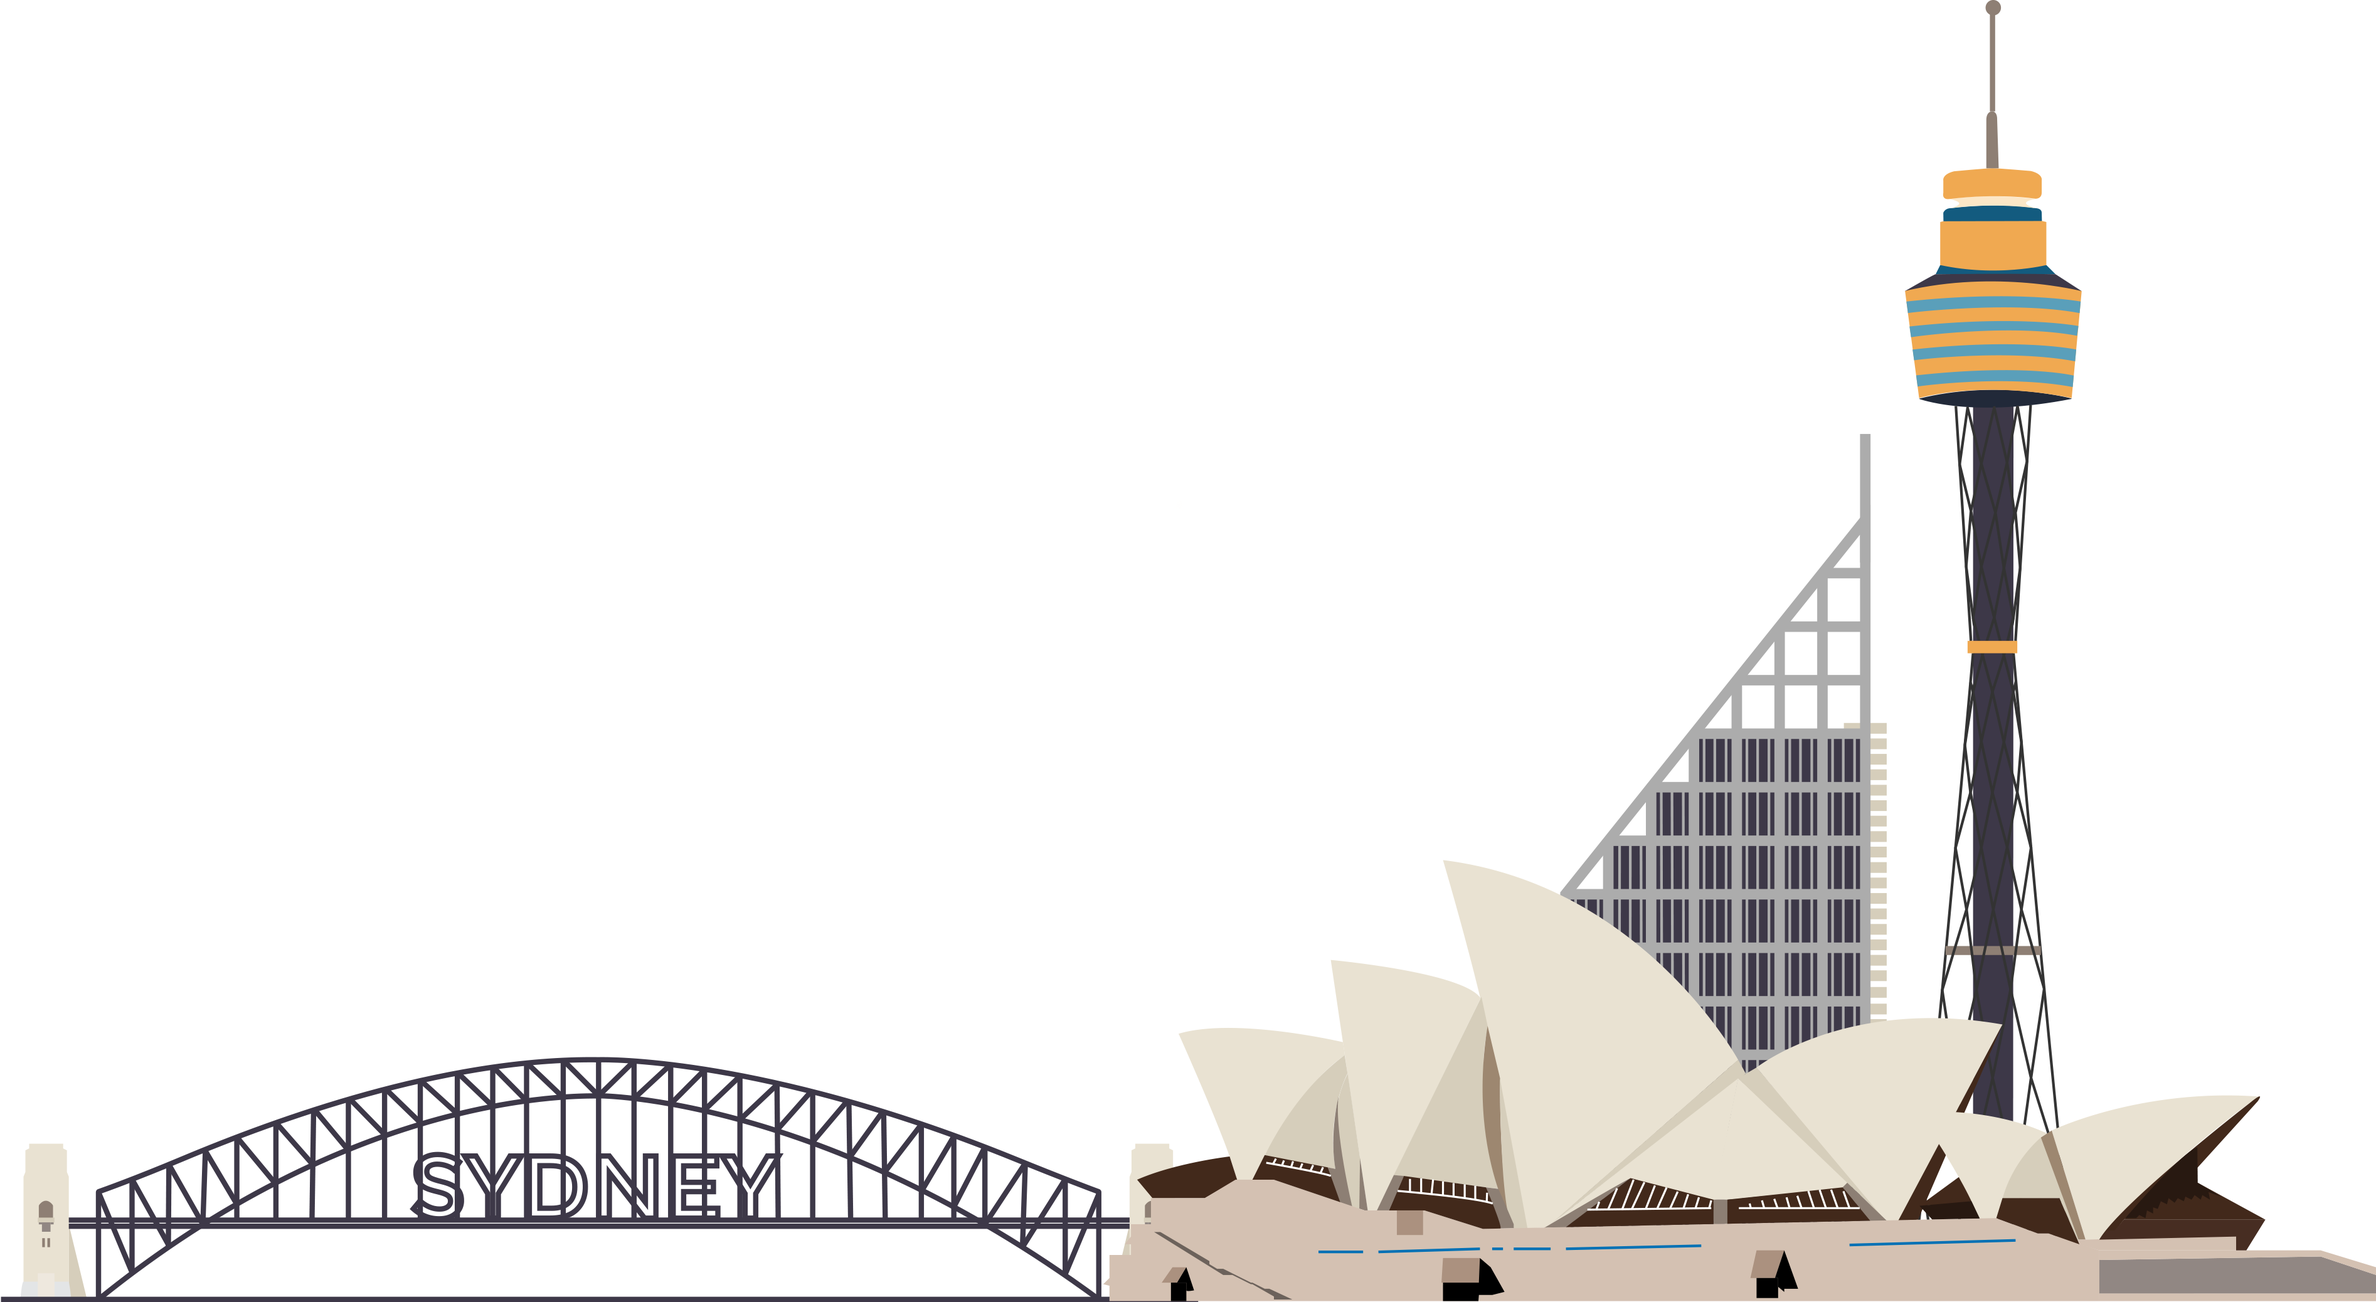
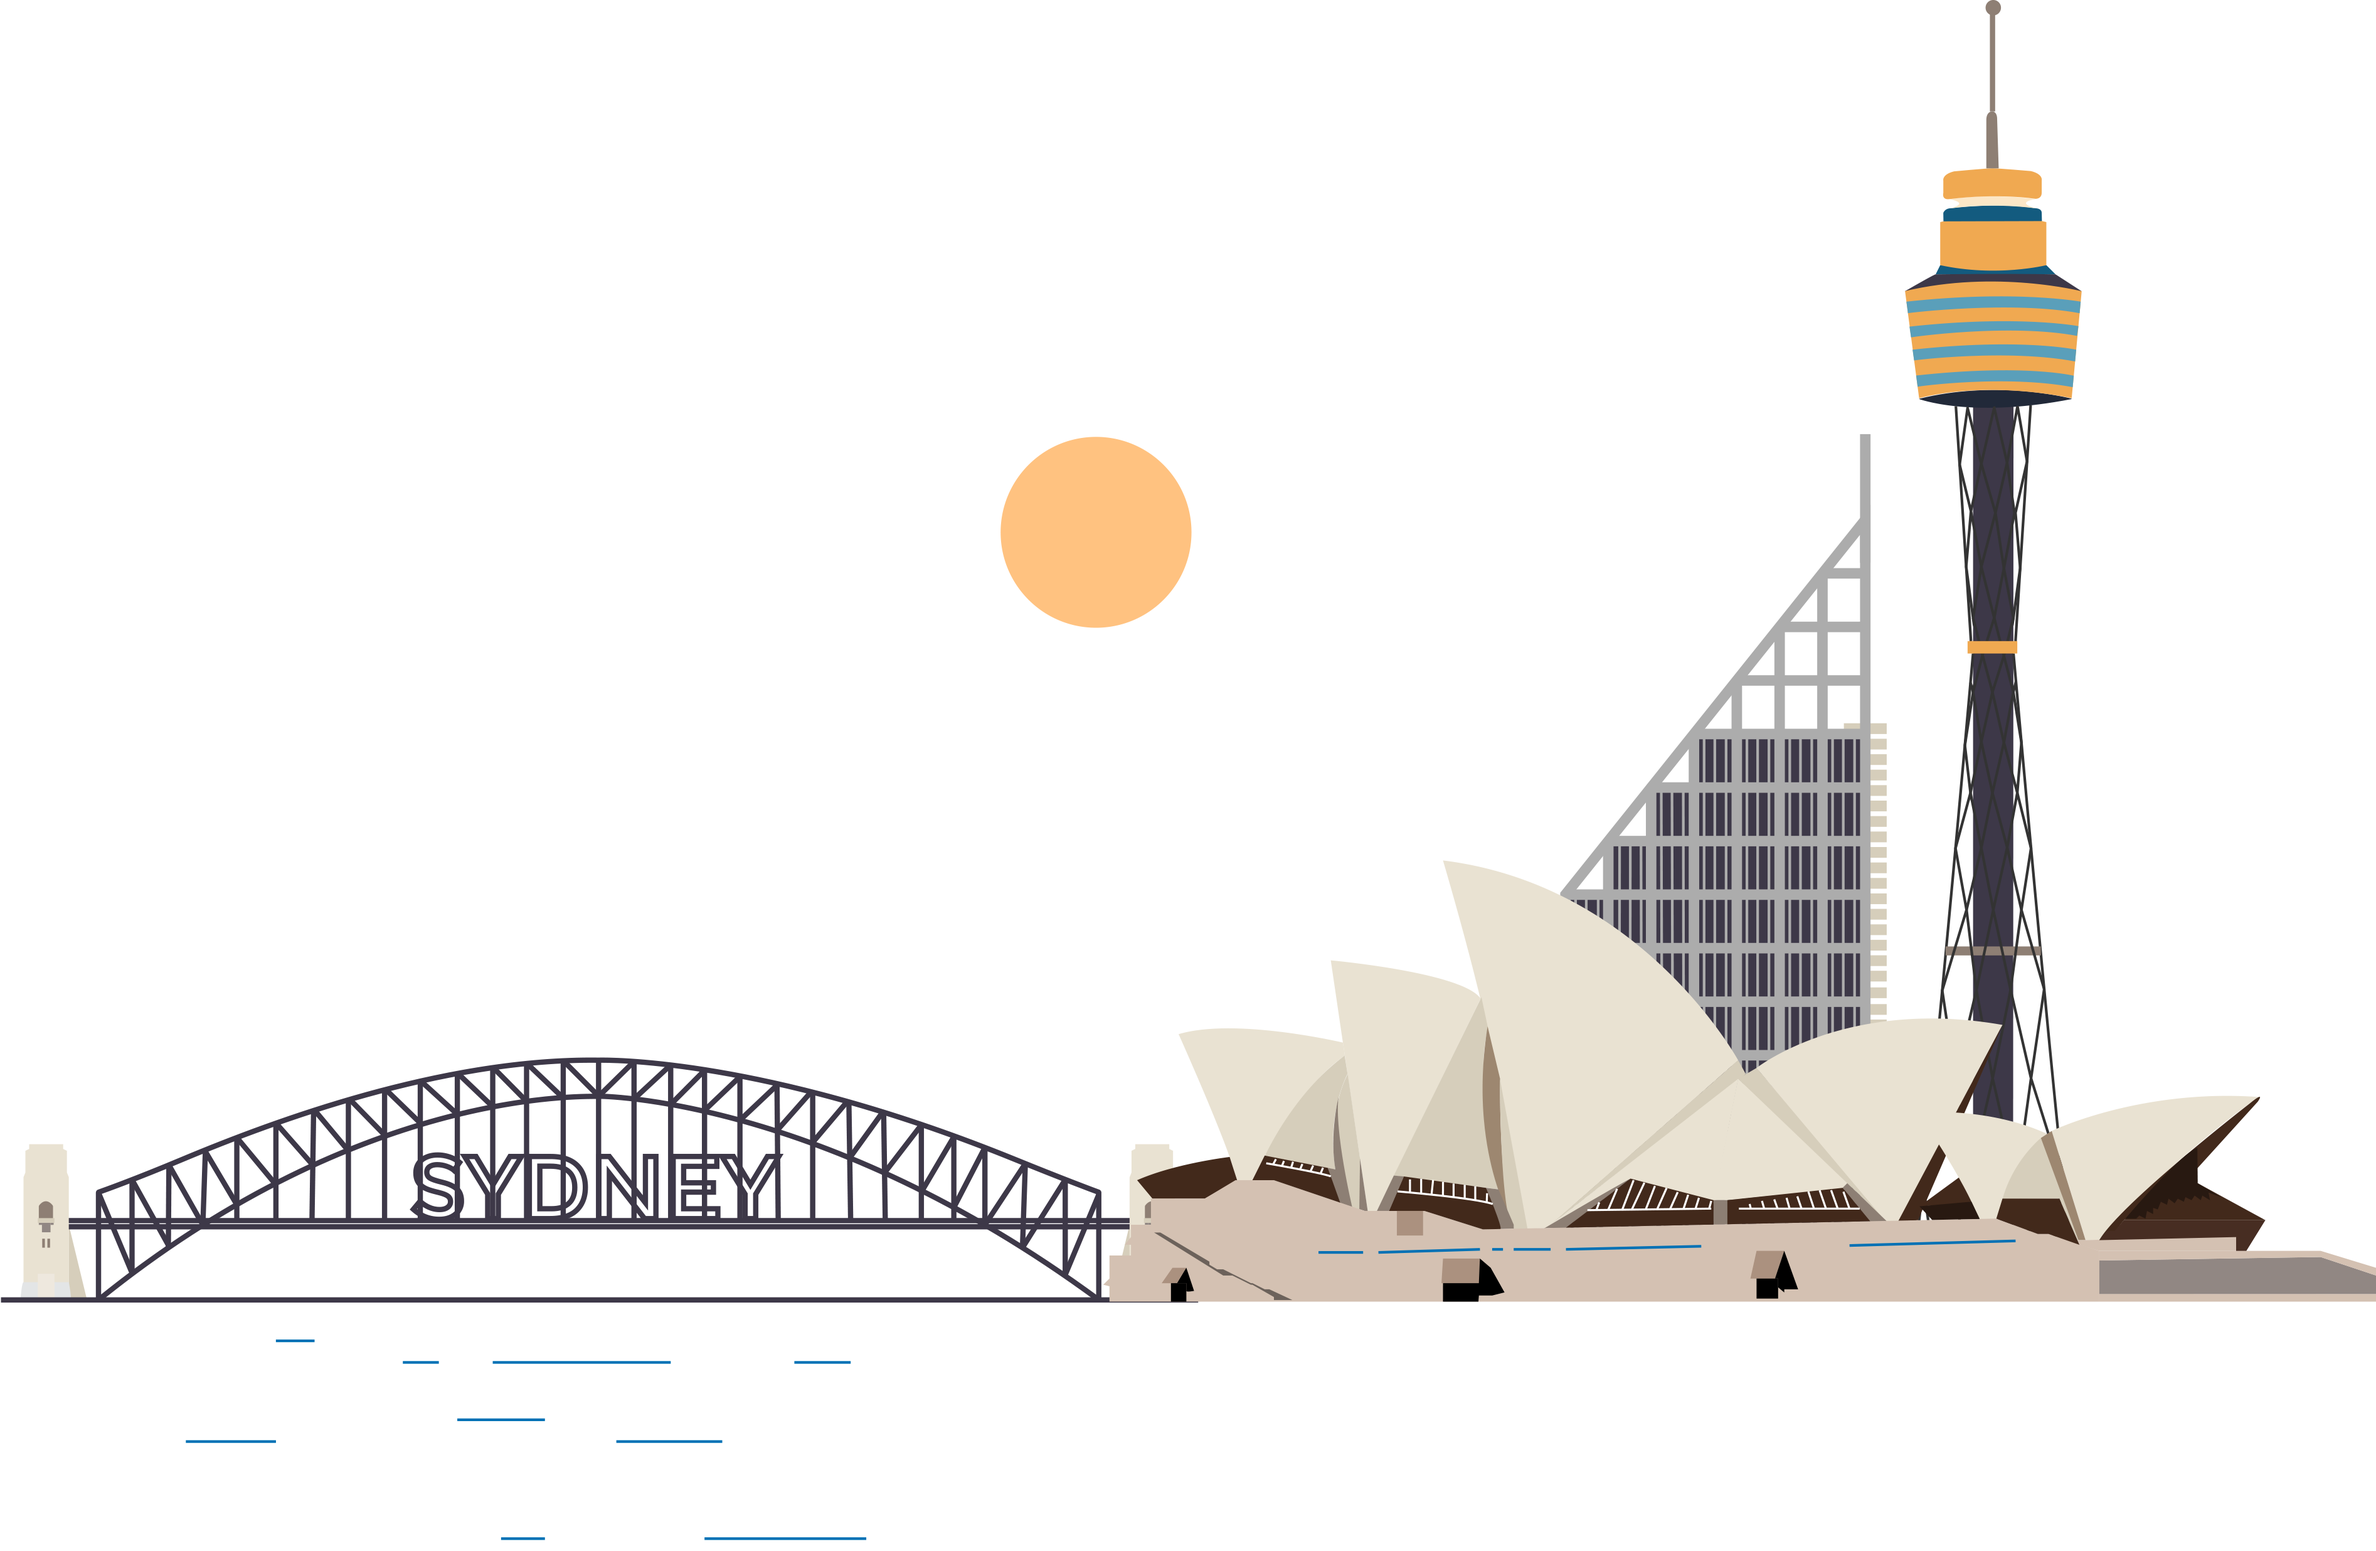
Add water to home

diff --git a/SourceCode_and_Documentation/frontend/src/HomePage.css b/SourceCode_and_Documentation/frontend/src/HomePage.css
@@ -54,10 +54,11 @@
 }
 
 .home-background {
-    position: absolute;
+    margin-top: 90px;
     bottom: 0;
 }
 
 .home-image{
-    width: 100%;
+    width: 80%;
+    float: right;
 }
